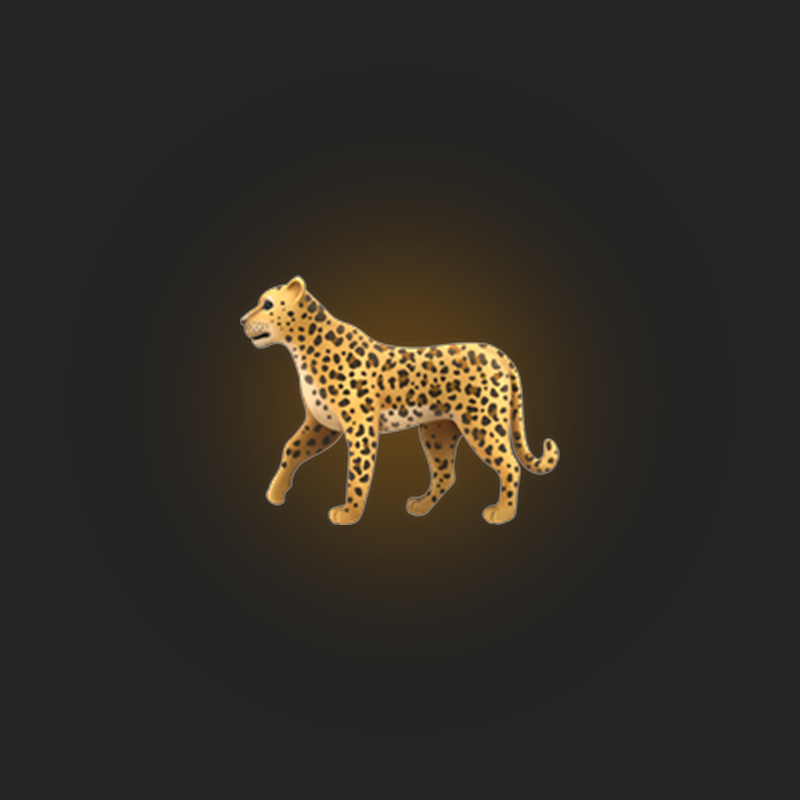
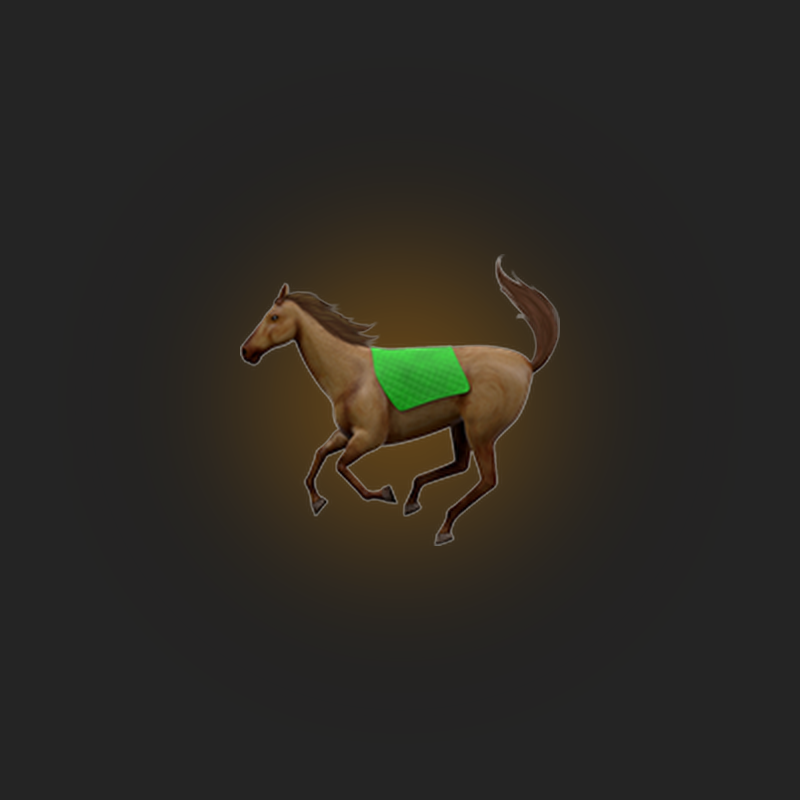
fix: 16가지 동물 이모지 1:1 완벽 교정, OG 이미지 재생성 및 불필요한 레거시 에셋 정리

Changed region(s): [[0.2812, 0.3438, 0.7188, 0.6875], [0.5938, 0.3125, 0.7188, 0.4375]]

diff --git a/src/data/investmentSurvey.ts b/src/data/investmentSurvey.ts
@@ -736,14 +736,14 @@ export const TYPE_EMOJIS: Record<string, string> = {
   GALR: '🦅', // 독수리 (데이터 분석가)
   GALI: '🦁', // 사자 (뚝심의 승부사)
   GATR: '🐆', // 치타 (추세 공략가)
-  GATI: '🐆', // 표범 (트렌드 세터)
+  GATI: '🐎', // 경주마 (트렌드 세터)
   GPLR: '🐂', // 황소 (원칙 설계자)
   GPLI: '🐘', // 코끼리 (미래 개척자)
   GPTR: '🐬', // 돌고래 (신호 포착가)
-  GPTI: '🪶', // 매 (유연한 탐색가)
+  GPTI: '🦈', // 상어 (유연한 탐색가)
   SALR: '🐻', // 곰 (원금 수호자)
   SALI: '🐐', // 산양 (신중한 검증가)
-  SATR: '🦡', // 미어캣 (위험 경보관)
+  SATR: '🐿', // 다람쥐 (위험 경보관)
   SATI: '🦊', // 여우 (위기 감지자)
   SPLR: '🐢', // 거북이 (꾸준한 적립가)
   SPLI: '🐼', // 판다 (평화로운 투자자)
